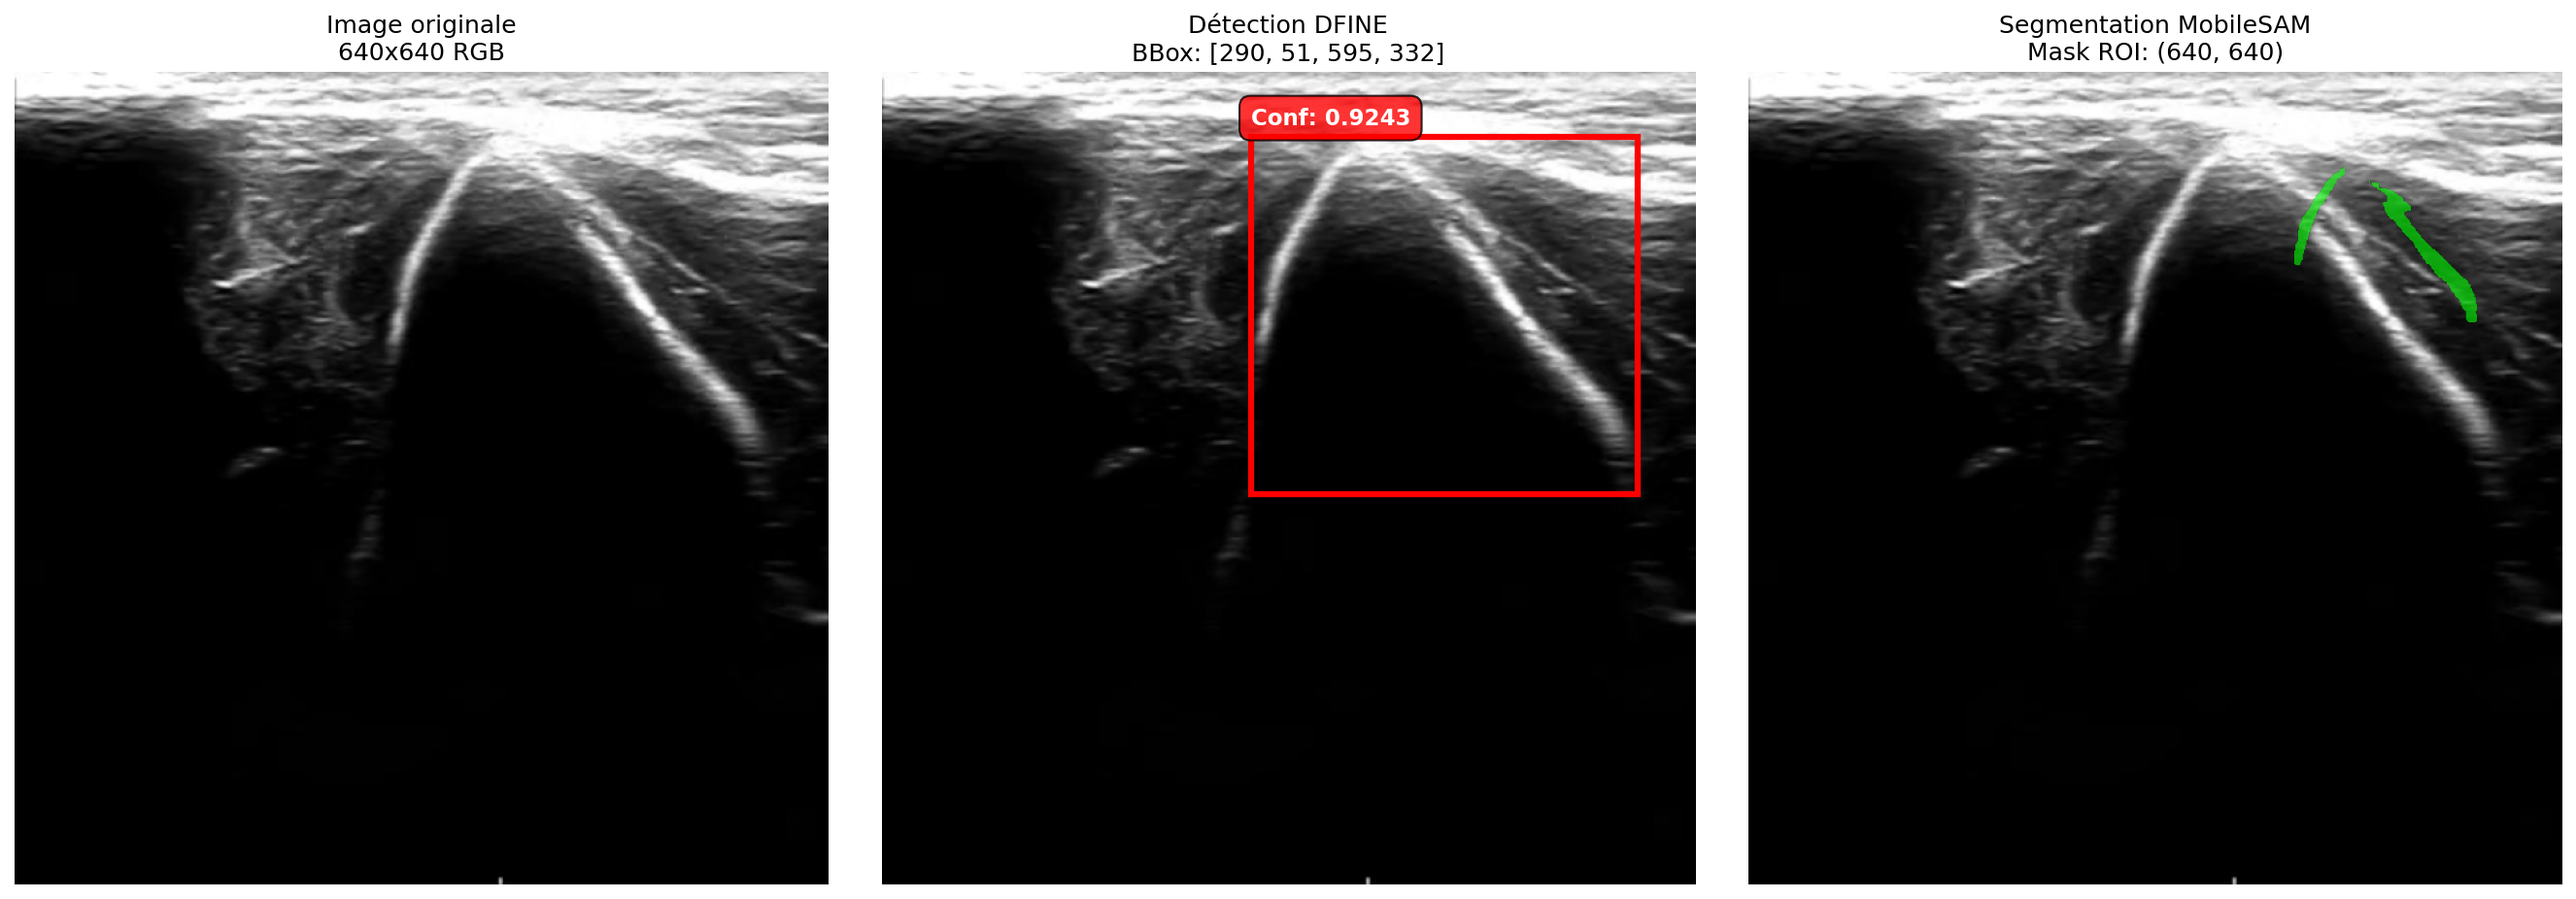
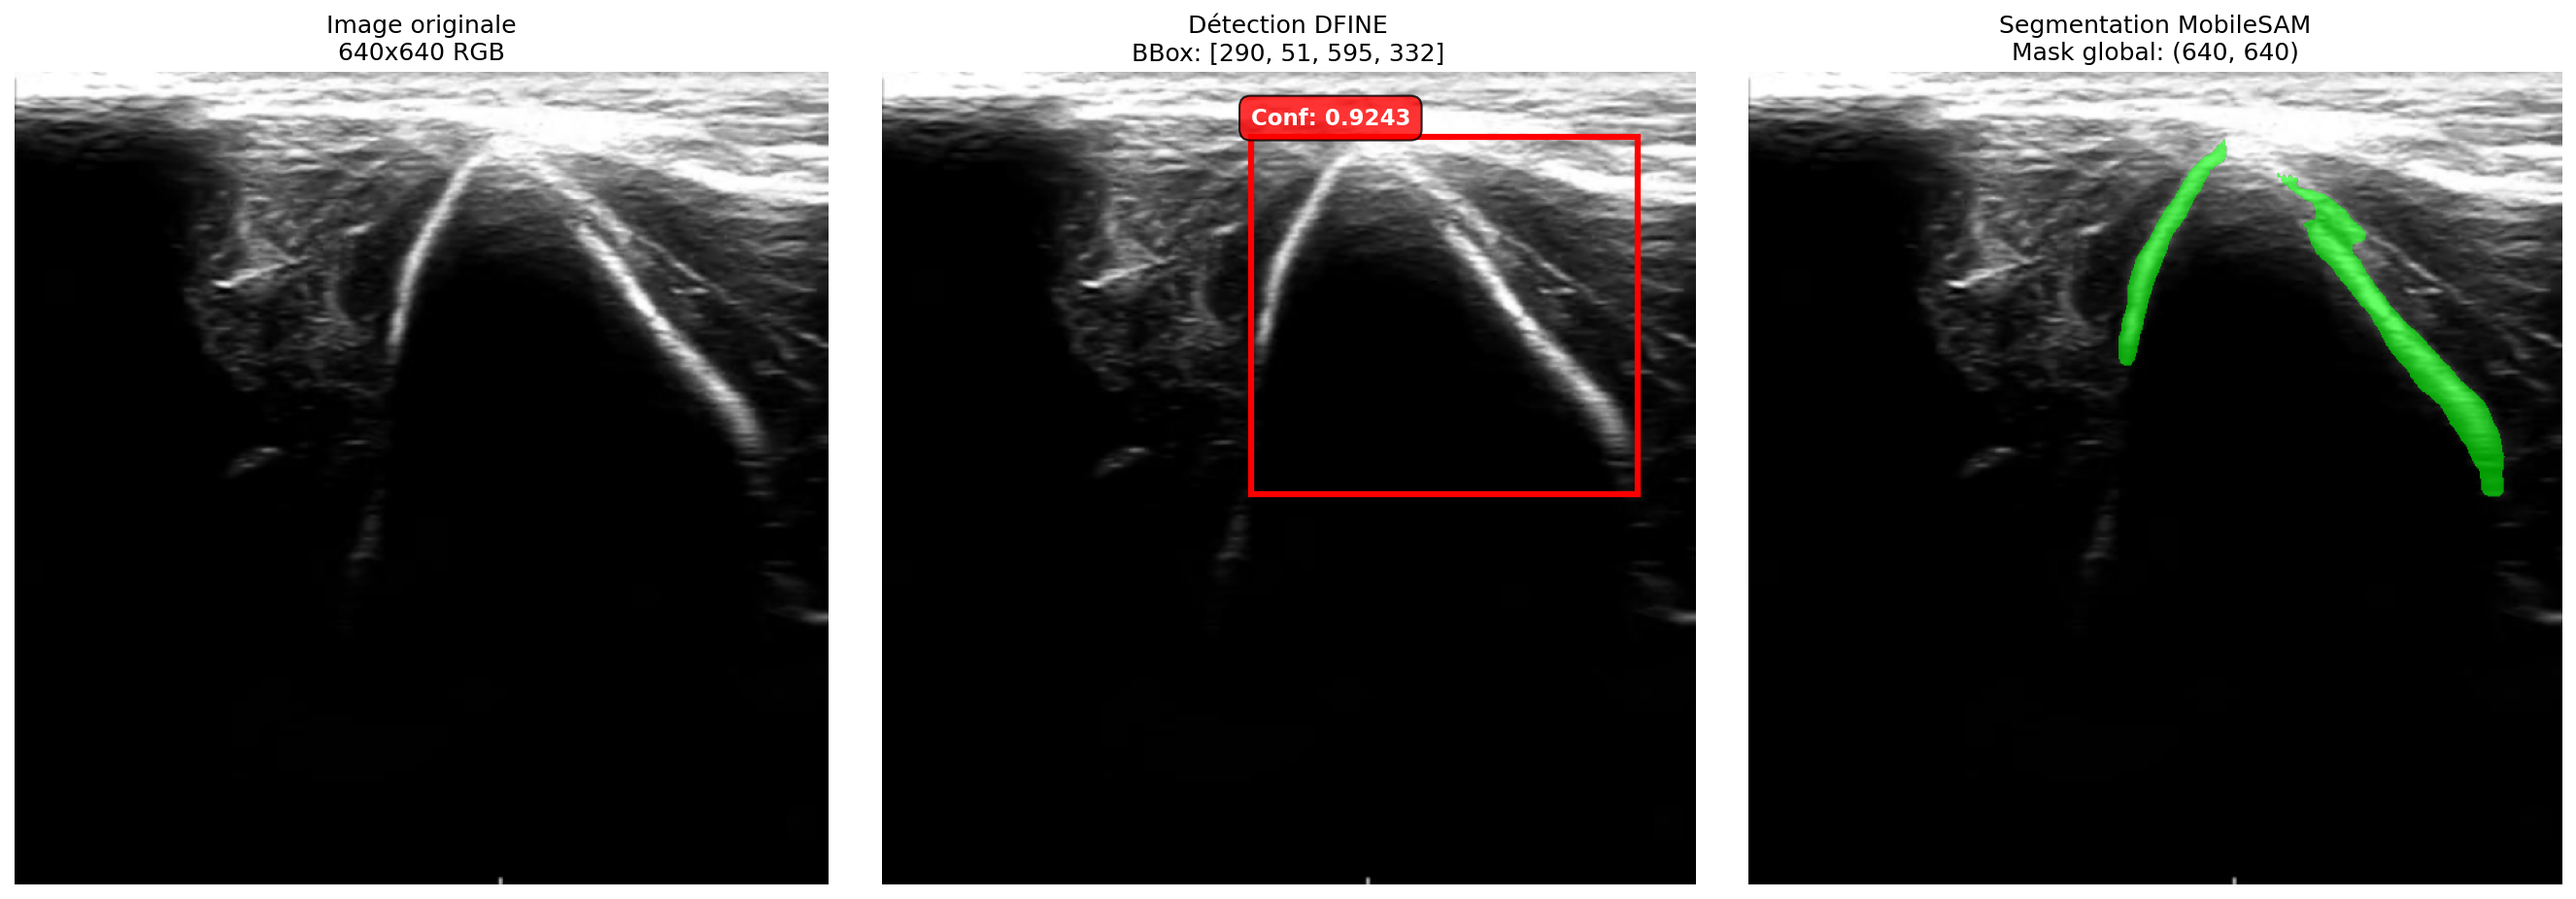
probleme regler entre masks et image origine avec SAM

Changed region(s): [[0.8039, 0.1512, 0.9894, 0.5443], [0.773, 0.0302, 0.8967, 0.0907]]

diff --git a/src/core/inference/engine/inference_sam.py b/src/core/inference/engine/inference_sam.py
@@ -11,21 +11,7 @@ LOG = logging.getLogger("igt.inference")
 
 
 def run_segmentation(sam_model: Any, image: np.ndarray, bbox_xyxy: Optional[np.ndarray] = None) -> Optional[np.ndarray]:
-    """Exécute MobileSAM sur l'image complète avec une bbox et retourne le mask binaire.
-
-    Args:
-        sam_model: SamPredictor instance wrapping the MobileSAM model
-        image: Image complète uint8 RGB (H, W, 3) dans le même repère que la bbox
-        bbox_xyxy: Bounding box au format [x1, y1, x2, y2] en pixels de l'image (optional)
-    
-    Returns:
-        Binary mask (H, W) numpy array or None
-    
-    Uses AMP autocast (fp16) when CUDA is available. Safely handles CPU-only
-    environments by returning None and logging a warning.
-    
-    Note: Si bbox_xyxy est None, cette fonction tombera en mode legacy (ROI).
-    """
+    """Exécute MobileSAM sur l'image complète avec une bbox et retourne le mask binaire."""
     if sam_model is None or image is None:
         return None
 
@@ -33,27 +19,23 @@ def run_segmentation(sam_model: Any, image: np.ndarray, bbox_xyxy: Optional[np.n
         LOG.warning("torch unavailable; skipping segmentation")
         return None
 
-    # Check if we have a SamPredictor instance (new API) or raw model (legacy)
     has_predictor_api = hasattr(sam_model, 'set_image') and hasattr(sam_model, 'predict')
-    
-    # NEW API: Use SamPredictor with full image + bbox
+
+    # --- MODE AVEC PREDICTOR ---
     if has_predictor_api and bbox_xyxy is not None:
         try:
-            # Ensure image is uint8 RGB
+            # 🔹 Conversion image
             if image.dtype != np.uint8:
                 image_uint8 = (np.clip(image, 0, 1) * 255).astype(np.uint8) if image.max() <= 1.0 else image.astype(np.uint8)
             else:
                 image_uint8 = image
-            
-            # Ensure RGB (convert grayscale if needed)
+
             if image_uint8.ndim == 2:
                 image_uint8 = np.stack([image_uint8] * 3, axis=-1)
             elif image_uint8.shape[-1] == 1:
                 image_uint8 = np.repeat(image_uint8, 3, axis=-1)
-            
-            # Check model dtype and handle FP16 models
-            # The issue: SamPredictor creates FP32 tensors, but if model is FP16, we get dtype mismatch
-            # Solution: Wrap set_image/predict with autocast to ensure dtype consistency
+
+            # 🔹 Type du modèle
             try:
                 model = getattr(sam_model, 'model', sam_model)
                 model_dtype = next(model.parameters()).dtype
@@ -64,51 +46,47 @@ def run_segmentation(sam_model: Any, image: np.ndarray, bbox_xyxy: Optional[np.n
                 use_fp16 = False
                 device_type = "cuda" if torch.cuda.is_available() else "cpu"
                 LOG.debug(f"Could not detect SAM dtype: {e}, defaulting to FP32")
-            
-            # Set the image (computes embeddings) with appropriate autocast
-            if use_fp16 and device_type == "cuda":
-                # Use autocast for FP16 models
-                with torch.amp.autocast(device_type="cuda", dtype=torch.float16):
-                    sam_model.set_image(image_uint8)
-            else:
-                sam_model.set_image(image_uint8)
-            
-            # Prepare bbox: ensure it's in the right format [x1, y1, x2, y2]
+
+            # --- [SAM PROMPT MODE] Full image + bbox ---
             bbox_np = np.array(bbox_xyxy, dtype=np.float32).flatten()
             if bbox_np.size != 4:
                 LOG.warning("Invalid bbox shape: %s, falling back to legacy mode", bbox_np.shape)
                 return _run_segmentation_legacy(sam_model, image)
-            
-            # Predict with bbox prompt (also under autocast if FP16)
+
+            LOG.debug(f"[SAM DEBUG] Received bbox_xyxy={bbox_np}")
+
+            # 🔹 Embedding complet
             if use_fp16 and device_type == "cuda":
                 with torch.amp.autocast(device_type="cuda", dtype=torch.float16):
-                    masks, scores, _ = sam_model.predict(
-                        box=bbox_np,
-                        multimask_output=False
-                    )
+                    sam_model.set_image(image_uint8)
             else:
-                masks, scores, _ = sam_model.predict(
-                    box=bbox_np,
-                    multimask_output=False
-                )
-            
-            # Extract the first (and only) mask
+                sam_model.set_image(image_uint8)
+
+            LOG.debug(f"[SAM DEBUG] Image embedding set on full image {image_uint8.shape}")
+
+            # 🔹 Prédiction avec bbox
+            if use_fp16 and device_type == "cuda":
+                with torch.amp.autocast(device_type="cuda", dtype=torch.float16):
+                    masks, scores, _ = sam_model.predict(box=bbox_np, multimask_output=False)
+            else:
+                masks, scores, _ = sam_model.predict(box=bbox_np, multimask_output=False)
+
+            # --- Résultat ---
             if masks is not None and len(masks) > 0:
-                mask = masks[0]  # (H, W)
+                mask = masks[0]
                 LOG.debug(f"SAM prediction successful: mask shape={mask.shape}, score={scores[0] if len(scores) > 0 else 'N/A'}")
                 return mask.astype(bool)
             else:
                 LOG.warning("SAM predict returned no masks")
                 return None
-                
+
         except Exception as e:
             LOG.exception("SAM segmentation with predictor API failed: %s", e)
             return None
-    
-    # LEGACY API: Direct model call with ROI (fallback for compatibility)
-    else:
-        LOG.debug("Using legacy SAM inference (no bbox or no predictor API)")
-        return _run_segmentation_legacy(sam_model, image)
+
+    # --- LEGACY MODE ---
+    LOG.debug("Using legacy SAM inference (no bbox or no predictor API)")
+    return _run_segmentation_legacy(sam_model, image)
 
 
 def _run_segmentation_legacy(sam_model: Any, roi: np.ndarray) -> Optional[np.ndarray]:

diff --git a/tests/test_pipeline_full.py b/tests/test_pipeline_full.py
@@ -129,42 +129,16 @@ def test_pipeline_end_to_end():
     
     # Image de droite: avec mask de segmentation
     # Le mask est dans les coordonnées de la ROI, il faut le replacer sur l'image complète
+# --- Mask global directement ---
     axes[2].imshow(image)
-    if mask is not None and bbox is not None:
-        # Créer un mask complet de la taille de l'image
-        full_mask = np.zeros((640, 640), dtype=bool)
-        
-        # Replacer le mask dans la bbox
-        mask_h, mask_w = mask.shape
-        # Redimensionner le mask si nécessaire pour correspondre à la bbox
-        if mask_h != height or mask_w != width:
-            from scipy.ndimage import zoom
-            scale_y = height / mask_h
-            scale_x = width / mask_w
-            mask_resized = zoom(mask.astype(float), (scale_y, scale_x), order=1) > 0.5
-        else:
-            mask_resized = mask
-        
-        # Placer le mask redimensionné dans la bbox de l'image complète
-        y1_clip = max(0, y1)
-        y2_clip = min(640, y1 + mask_resized.shape[0])
-        x1_clip = max(0, x1)
-        x2_clip = min(640, x1 + mask_resized.shape[1])
-        
-        mask_y1 = 0 if y1 >= 0 else -y1
-        mask_y2 = mask_resized.shape[0] if y2 <= 640 else mask_resized.shape[0] - (y2 - 640)
-        mask_x1 = 0 if x1 >= 0 else -x1
-        mask_x2 = mask_resized.shape[1] if x2 <= 640 else mask_resized.shape[1] - (x2 - 640)
-        
-        full_mask[y1_clip:y2_clip, x1_clip:x2_clip] = mask_resized[mask_y1:mask_y2, mask_x1:mask_x2]
-        
-        # Créer un overlay semi-transparent pour le mask
+    if mask is not None:
         mask_overlay = np.zeros((640, 640, 4))
-        mask_overlay[full_mask] = [0, 1, 0, 0.6]  # Vert semi-transparent
+        mask_overlay[mask.astype(bool)] = [0, 1, 0, 0.6]  # vert semi-transparent
         axes[2].imshow(mask_overlay)
-    
-    axes[2].set_title(f"Segmentation MobileSAM\nMask ROI: {mask.shape if mask is not None else 'N/A'}", fontsize=12)
+
+    axes[2].set_title(f"Segmentation MobileSAM\nMask global: {mask.shape}", fontsize=12)
     axes[2].axis('off')
+
     
     plt.tight_layout()
     output_path = os.path.join(ROOT, "test_pipeline_result.png")

diff --git a/src/core/inference/engine/orchestrator.py b/src/core/inference/engine/orchestrator.py
@@ -157,6 +157,7 @@ def prepare_inference_inputs(frame_t: np.ndarray, dfine_model: Any, sam_model: A
 
         # 4) Run MobileSAM with full image + bbox (new predictor API)
         try:
+            LOG.debug(f"[MASK DEBUG] Calling run_segmentation with bbox={bbox_t}")
             mask = run_segmentation(sam_model, full_image, bbox_xyxy=bbox_t)
         except Exception as e:
             LOG.exception("SAM segmentation failed: %s", e)
